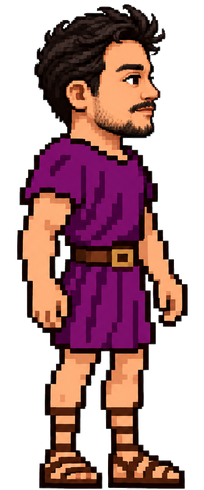
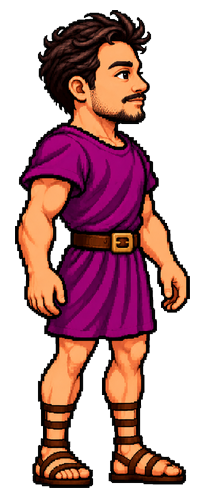
Nouveaux sprites des 8 potes, dans le style des adversaires
- Proportions réalistes (tête plus petite, détails et ombrages comme les adversaires),
  fond et blanc entre bras et corps retirés, ramenés au format 204×490
- RIG_PERSO redécoupé pour ces proportions, jambes sous l'ourlet de la tunique
- Tous les équipements recalés : casque, peau de lion, plastron, tunique de cuir, jambières,
  manica, galerus, filet, boucliers, chope, couronne, écharpe, crâne, cape impériale
- Poing réduit pour aller avec les nouvelles mains ; CLAUDE.md mis à jour

Claude-Session: https://claude.ai/code/session_01KAPrrVq5fSLyxcSHdi6H6B

diff --git a/index.html b/index.html
@@ -753,23 +753,23 @@ const WEAPON_IMG = {
 };
 // pièces portées : rectangle (unités du sprite, origine entre les pieds)
 const WEAR = {
-  jambieres:{x:-58, y:-128, w:116},
-  plastron:{x:-84, y:-354, w:138},
-  manica:{x:-88, y:-298, h:140},
-  filet:{x:-124, y:-212, w:112},
-  'bouclier-bois':{cx:-46, cy:-245, h:205},
-  'bouclier-pointes':{cx:-40, cy:-245, h:205},
-  egide:{cx:-46, cy:-245, h:205},
-  scutum:{cx:-46, cy:-245, h:225},
-  'tunique-cuir':{x:-84, y:-358, w:140},
-  galerus:{x:-108, y:-402, h:104},
-  chope:{cx:-74, cy:-176, w:96},
-  casque:{x:-100, y:-532, w:188},
-  'peau-lion':{x:-160, y:-530, w:268},
-  laurier:{cx:6, cy:-442, w:150},
-  'laurier-dos':{cx:6, cy:-442, w:150},
-  echarpe:{x:-74, y:-350, h:190},
-  crane:{x:-4, y:-240, h:78}
+  jambieres:{x:-66, y:-116, w:130},
+  plastron:{x:-66, y:-364, w:122},
+  manica:{x:-84, y:-292, h:100},
+  filet:{x:-112, y:-236, w:100},
+  'bouclier-bois':{cx:-58, cy:-262, h:205},
+  'bouclier-pointes':{cx:-52, cy:-262, h:205},
+  egide:{cx:-58, cy:-262, h:205},
+  scutum:{cx:-58, cy:-262, h:225},
+  'tunique-cuir':{x:-70, y:-366, w:134},
+  galerus:{x:-100, y:-420, h:92},
+  chope:{cx:-62, cy:-200, w:84},
+  casque:{x:-78, y:-522, w:148},
+  'peau-lion':{x:-126, y:-520, w:214},
+  laurier:{cx:-2, cy:-450, w:118},
+  'laurier-dos':{cx:-2, cy:-450, w:118},
+  echarpe:{x:-70, y:-362, h:190},
+  crane:{x:-6, y:-252, h:64}
 };
 function loadItems(cb){
   let left = ITEM_FILES.length;
@@ -815,8 +815,8 @@ const WPN_BOX  = {x:-60,  y:-300, w:420, h:420};
 const GEAR_CACHE = {};
 
 function gearBack(c, L){
-  if(L.emperor){ c.fillStyle='#5b2a7a'; c.beginPath(); c.moveTo(-40,-330); c.quadraticCurveTo(-175,-200,-150,-15); c.lineTo(-50,-60); c.closePath(); c.fill();
-    c.strokeStyle='#f0c040'; c.lineWidth=10; c.beginPath(); c.moveTo(-150,-15); c.lineTo(-50,-60); c.stroke(); }
+  if(L.emperor){ c.fillStyle='#5b2a7a'; c.beginPath(); c.moveTo(-15,-364); c.quadraticCurveTo(-135,-250,-112,-12); c.lineTo(-30,-36); c.closePath(); c.fill();
+    c.strokeStyle='#f0c040'; c.lineWidth=10; c.beginPath(); c.moveTo(-112,-12); c.lineTo(-30,-36); c.stroke(); }
   if(L.lion && !hasImg('peau-lion')){ c.fillStyle='#c08a30'; c.beginPath(); c.moveTo(-30,-450); c.quadraticCurveTo(-190,-280,-150,-30); c.lineTo(-60,-120); c.closePath(); c.fill();
     c.fillStyle='#7a4a16'; circ(c,-150,-40,18); circ(c,-55,-400,62); }
 }
@@ -937,7 +937,16 @@ const PART_POLY = {
 };
 // pivots en coordonnées relatives (origine entre les pieds)
 const PIV = {head:[5,-346], armB:[-55,-298], armF:[48,-290], legB:[-30,-142], legF:[25,-142]};
-const RIG_PERSO = {poly:PART_POLY, piv:PIV, hand:[72,-185], probe:[100,300], fill:[[56,190],[80,186],[82,346],[54,346]], skin:[140,215,50,100]};
+// potes (nouveaux sprites, proportions réalistes) : comme les adversaires, mais jambes sous l'ourlet de la tunique
+const RIG_PERSO = {
+  poly:{ head:[[0,0],[204,0],[204,122],[0,122]],
+         armB:[[0,122],[62,122],[66,200],[64,315],[0,315]],
+         armF:[[140,124],[204,124],[204,315],[148,315],[138,230]],
+         legB:[[0,338],[102,338],[102,490],[0,490]],
+         legF:[[102,338],[204,338],[204,490],[102,490]] },
+  piv:{head:[0,-366], armB:[-60,-350], armF:[62,-350], legB:[-25,-150], legF:[25,-150]},
+  hand:[78,-196], probe:[100,190], fill:[[56,126],[72,126],[72,300],[56,300]], skin:[150,170,40,90]
+};
 // adversaires : proportions réalistes (tête plus petite, bras plus longs, bassin plus haut)
 const RIG_ENEMY = {
   poly:{ head:[[0,0],[204,0],[204,124],[0,124]],
@@ -1023,7 +1032,7 @@ function drawSpriteGlad(c, x, y, dir, L, st={}){
   at(PIV.head, P.head, ()=>{
     if(L.emperor) wear(c,'laurier-dos',flash);   // l'arrière de la couronne passe derrière le crâne
     img(PT.head);
-    if(L.lion){ c.save(); c.beginPath(); c.rect(-300,-620,600,280); c.rect(-15,-345,200,120); c.clip(); wear(c,'peau-lion',flash); c.restore(); }
+    if(L.lion){ c.save(); c.beginPath(); c.rect(-300,-620,600,250); c.rect(-15,-372,200,120); c.clip(); wear(c,'peau-lion',flash); c.restore(); }
     else if(L.helmet) wear(c,'casque',flash);
     if(L.emperor) wear(c,'laurier',flash);
     c.imageSmoothingEnabled = false; blitPix(c, G.head, GEAR_BOX, flash); c.imageSmoothingEnabled = true;
@@ -1055,7 +1064,7 @@ function drawSpriteGlad(c, x, y, dir, L, st={}){
     img(PT.armF);
     if(!polearm) weapon();
     // poing incliné dans l'axe de l'arme (45°) et qui suit sa rotation
-    c.save(); c.translate(HD[0],HD[1]); c.rotate(P.wpn + Math.PI/4); c.translate(-73,184);
+    c.save(); c.translate(HD[0],HD[1]); c.rotate(P.wpn + Math.PI/4); c.scale(0.8,0.8); c.translate(-73,184);
     c.imageSmoothingEnabled = false; blitPix(c, getFist(S.parts), FIST_BOX, flash); c.imageSmoothingEnabled = true;
     c.restore();
   });

diff --git a/CLAUDE.md b/CLAUDE.md
@@ -112,8 +112,9 @@ Tous les sprites humains font **204×490 px**, personnage de face, pieds en bas.
 - `skin` / `skinDark` : teinte de peau moyenne mesurée dans le rectangle `rig.skin` (sert au poing).
 
 Deux découpes :
-- **`RIG_PERSO`** (les 8 potes, grosse tête) : tête 0–146, bras ~186–340, jambes 347–490. Pivots `PIV`.
-- **`RIG_ENEMY`** (adversaires, proportions réalistes) : tête 0–124, bras 124–312, jambes 300–490.
+- **`RIG_PERSO`** (les 8 potes, proportions réalistes comme les adversaires) : tête 0–122, bras 122–315, jambes 338–490 (sous l'ourlet de la tunique, pour qu'elle ne se coupe pas quand les jambes bougent).
+- **`RIG_ENEMY`** (adversaires) : tête 0–124, bras 124–312, jambes 300–490 (pagne court).
+- `PART_POLY` / `PIV` sont l'ancienne découpe « grosse tête », gardée seulement comme valeur par défaut de `buildParts`.
 
 **Repère relatif** : tout ce qui n'est pas `poly` (pivots `piv`, `hand`, `WEAR`, `WEAPON_IMG`, `GEAR_BOX`) est en unités du sprite avec **l'origine entre les pieds** : `x_rel = x_img − 100`, `y_rel = y_img − 488` (`SPR_AX`, `SPR_AY`), y négatif vers le haut. Mise à l'échelle à l'écran : `k = scale × 1,12 × 100 / 478`.
 
@@ -157,7 +158,7 @@ Pour l'interface, `augArt(g)` montre l'image d'objet (`AUG_IMG[id]` ou `WEAPON_O
 - Pièce portée : régler `WEAR` en repère relatif (origine entre les pieds, y négatif vers le haut) et vérifier sur un perso **et** sur l'écran de sélection, en pose de repos et en attaque.
 
 ### Un gladiateur jouable
-1. Sprite `assets/persos/<id>.png` **exactement 204×490**, mêmes proportions que les 8 autres pour que `RIG_PERSO` le découpe correctement (tête dans 0–146, bras libres du torse, jambes sous 347, tunique au pixel `probe` (100, 300), peau visible dans la zone `skin`).
+1. Sprite `assets/persos/<id>.png` **exactement 204×490**, mêmes proportions que les 8 autres pour que `RIG_PERSO` le découpe correctement (tête au-dessus de 122, bras libres du torse jusqu'à 315, tunique terminée avant 338, tunique au pixel `probe` (100, 190), peau visible dans la zone `skin`). Les 8 sprites actuels ont été générés avec le même prompt que les adversaires (pose de 3/4 vers la droite, mains vides, sans casque ni armure), puis détourés et ramenés à 478 px de haut, pieds à y = 488.
 2. Entrée dans `CHARS` (`id` = nom du fichier, stats, `desc` qui décrit fidèlement le passif, `look.sprite = id`, arme de départ).
 3. Entrée dans `SPECIALS` et `case` dans `doSpecial` ; tout nouveau buff temporisé doit être ajouté à `resetRuntime`, au décompte dans `step` et à `drawBuffAura`.
 4. Il faut toujours au moins `NB_ACTS` (7) autres persos pour remplir les boss.
